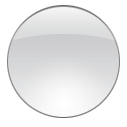
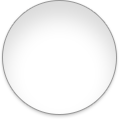
iOS7 style magnifying glass with crosshairs

diff --git a/measuredphoto/MeasuredPhoto/MPLoupe.m b/measuredphoto/MeasuredPhoto/MPLoupe.m
@@ -1,0 +1,47 @@
+//
+//  MPLoupe.m
+//  MeasuredPhoto
+//
+//  Created by Ben Hirashima on 1/24/14.
+//  Copyright (c) 2014 RealityCap. All rights reserved.
+//
+
+#import "MPLoupe.h"
+#import "MPCrosshairsLayerDelegate.h"
+
+static CGFloat const kACLoupeDefaultRadius = 64;
+
+@implementation MPLoupe
+{
+    MPCrosshairsLayerDelegate* crosshairsDelegate;
+    CALayer* crosshairsLayer;
+}
+
+- (id) init
+{
+    self = [self initWithFrame:CGRectMake(0, 0, kACLoupeDefaultRadius*2, kACLoupeDefaultRadius*2)];
+    return self;
+}
+
+- (id)initWithFrame:(CGRect)frame
+{
+    if (self = [super initWithFrame:frame])
+    {
+        self.layer.borderWidth = 0;
+		
+		UIImageView *loupeImageView = [[UIImageView alloc] initWithFrame:CGRectOffset(CGRectInset(self.bounds, -3.0, -3.0), 0, 2.5)];
+		loupeImageView.image = [UIImage imageNamed:@"kb-loupe-hi"];
+		loupeImageView.backgroundColor = [UIColor clearColor];
+		[self addSubview:loupeImageView];
+        
+        crosshairsDelegate = [MPCrosshairsLayerDelegate new];
+        crosshairsLayer = [CALayer new];
+        [crosshairsLayer setDelegate:crosshairsDelegate];
+        crosshairsLayer.frame = CGRectMake(0, 0, self.frame.size.width, self.frame.size.height);
+        [crosshairsLayer setNeedsDisplay];
+        [self.layer addSublayer:crosshairsLayer];
+    }
+    return self;
+}
+
+@end

diff --git a/measuredphoto/MeasuredPhoto/MPCrosshairsLayerDelegate.m b/measuredphoto/MeasuredPhoto/MPCrosshairsLayerDelegate.m
@@ -1,0 +1,41 @@
+//
+//  MPCrosshairsLayerDelegate.m
+//  MeasuredPhoto
+//
+//  Created by Ben Hirashima on 1/24/14.
+//  Copyright (c) 2014 RealityCap. All rights reserved.
+//
+
+#import "MPCrosshairsLayerDelegate.h"
+
+static const int kCrosshairLength = 25;
+
+@implementation MPCrosshairsLayerDelegate
+
+-(void) drawLayer:(CALayer *)layer inContext:(CGContextRef)context
+{
+    float const xCenter = layer.frame.size.width / 2;
+    float const yCenter = layer.frame.size.height / 2;
+    
+    // horizontal crossbar
+    CGContextMoveToPoint(context, xCenter - kCrosshairLength / 2, yCenter);
+    CGContextAddLineToPoint(context, xCenter + kCrosshairLength / 2, yCenter);
+    
+    // vertical crossbar
+    CGContextMoveToPoint(context, xCenter, yCenter - kCrosshairLength / 2);
+    CGContextAddLineToPoint(context, xCenter, yCenter + kCrosshairLength / 2);
+    
+    CGContextSetAlpha(context, .8);
+    CGContextSetLineWidth(context, 1.0);
+    CGContextSetShouldAntialias(context, NO); // allows line to be thinner
+    CGContextSetStrokeColorWithColor(context, [[UIColor redColor] CGColor]);
+    CGContextStrokePath(context);
+}
+
+// turns off animations, reduces lag
+//- (id<CAAction>)actionForLayer:(CALayer *)layer forKey:(NSString *)event
+//{
+//    return (id)[NSNull null];
+//}
+
+@end

diff --git a/measuredphoto/MeasuredPhoto/MPAugmentedRealityView.m b/measuredphoto/MeasuredPhoto/MPAugmentedRealityView.m
@@ -7,7 +7,7 @@
 //
 
 #import "MPAugmentedRealityView.h"
-#import "ACLoupe.h"
+#import "MPLoupe.h"
 
 @implementation MPAugmentedRealityView
 {    
@@ -63,7 +63,7 @@
     [self insertSubview:photoView aboveSubview:videoView];
     [self constrainToSelf:photoView];
 
-	ACLoupe *loupe = [[ACLoupe alloc] init];
+	MPLoupe *loupe = [[MPLoupe alloc] init];
 	self.magnifyingGlass = loupe;
 	loupe.scaleAtTouchPoint = NO;
     self.magnifyingGlass.viewToMagnify = photoView;

diff --git a/measuredphoto/MeasuredPhoto/MagnifyingGlass/ACMagnifyingGlass.m b/measuredphoto/MeasuredPhoto/MagnifyingGlass/ACMagnifyingGlass.m
@@ -8,7 +8,7 @@
 
 
 static CGFloat const kACMagnifyingGlassDefaultRadius = 40;
-static CGFloat const kACMagnifyingGlassDefaultOffset = -40;
+static CGFloat const kACMagnifyingGlassDefaultOffset = -70;
 static CGFloat const kACMagnifyingGlassDefaultScale = 1.5;
 
 @interface ACMagnifyingGlass ()

diff --git a/measuredphoto/MeasuredPhoto/MPCrosshairsLayerDelegate.h b/measuredphoto/MeasuredPhoto/MPCrosshairsLayerDelegate.h
@@ -1,0 +1,13 @@
+//
+//  MPCrosshairsLayerDelegate.h
+//  MeasuredPhoto
+//
+//  Created by Ben Hirashima on 1/24/14.
+//  Copyright (c) 2014 RealityCap. All rights reserved.
+//
+
+#import <Foundation/Foundation.h>
+
+@interface MPCrosshairsLayerDelegate : NSObject
+
+@end

diff --git a/measuredphoto/MeasuredPhoto/MPLoupe.h b/measuredphoto/MeasuredPhoto/MPLoupe.h
@@ -1,0 +1,13 @@
+//
+//  MPLoupe.h
+//  MeasuredPhoto
+//
+//  Created by Ben Hirashima on 1/24/14.
+//  Copyright (c) 2014 RealityCap. All rights reserved.
+//
+
+#import "ACLoupe.h"
+
+@interface MPLoupe : ACLoupe
+
+@end
